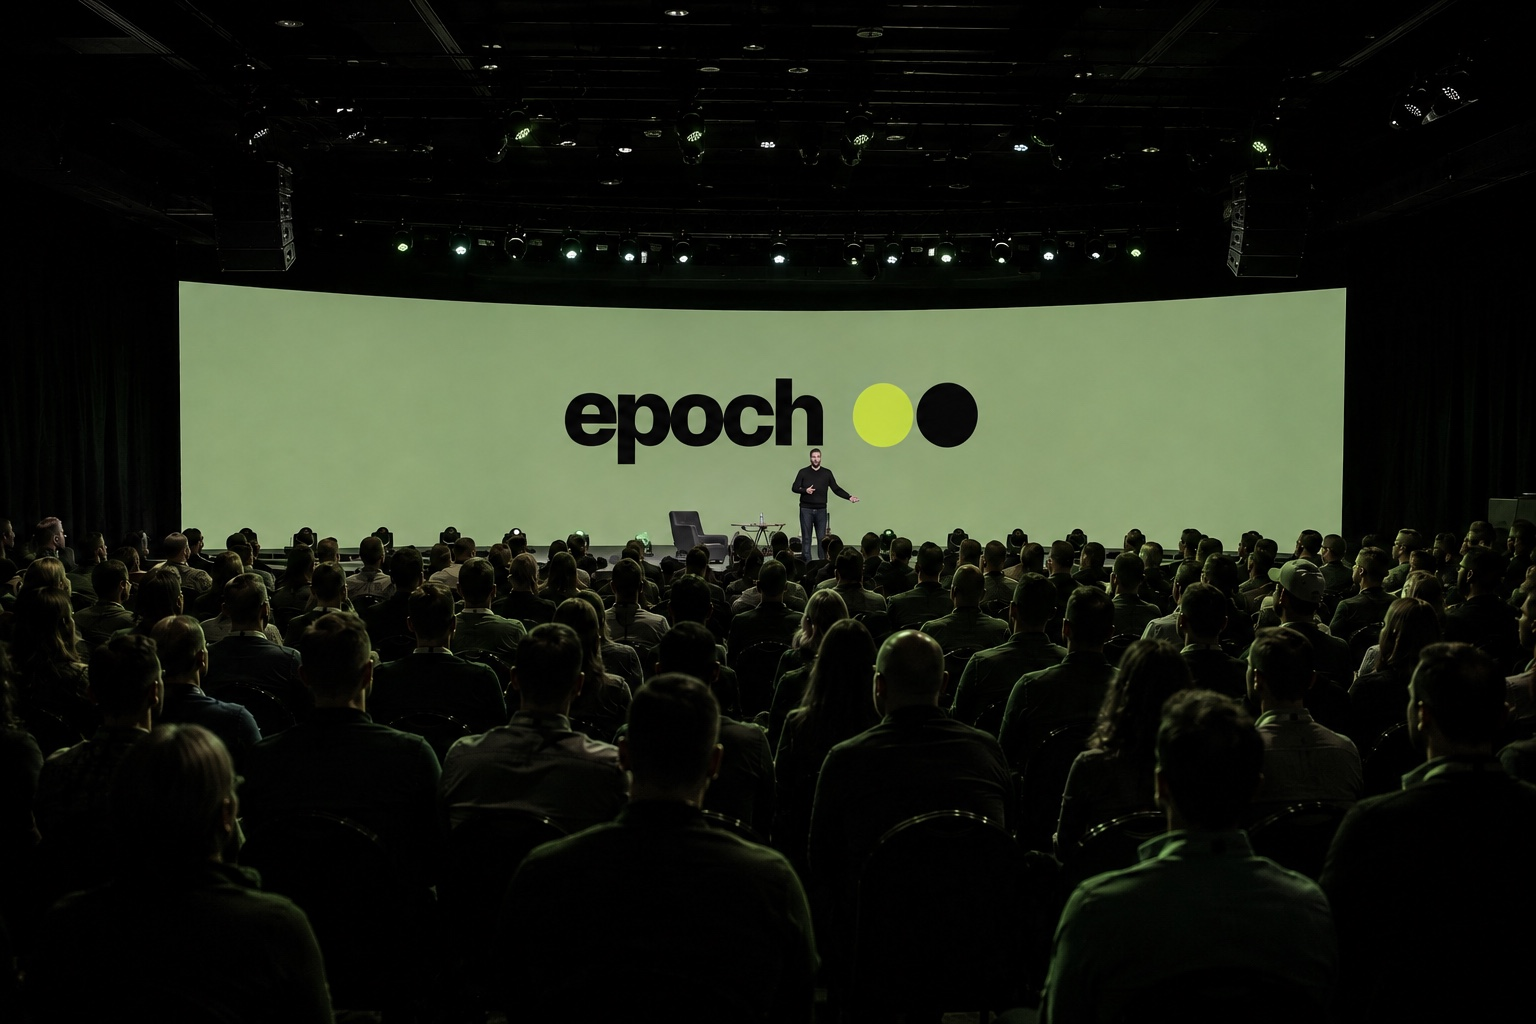
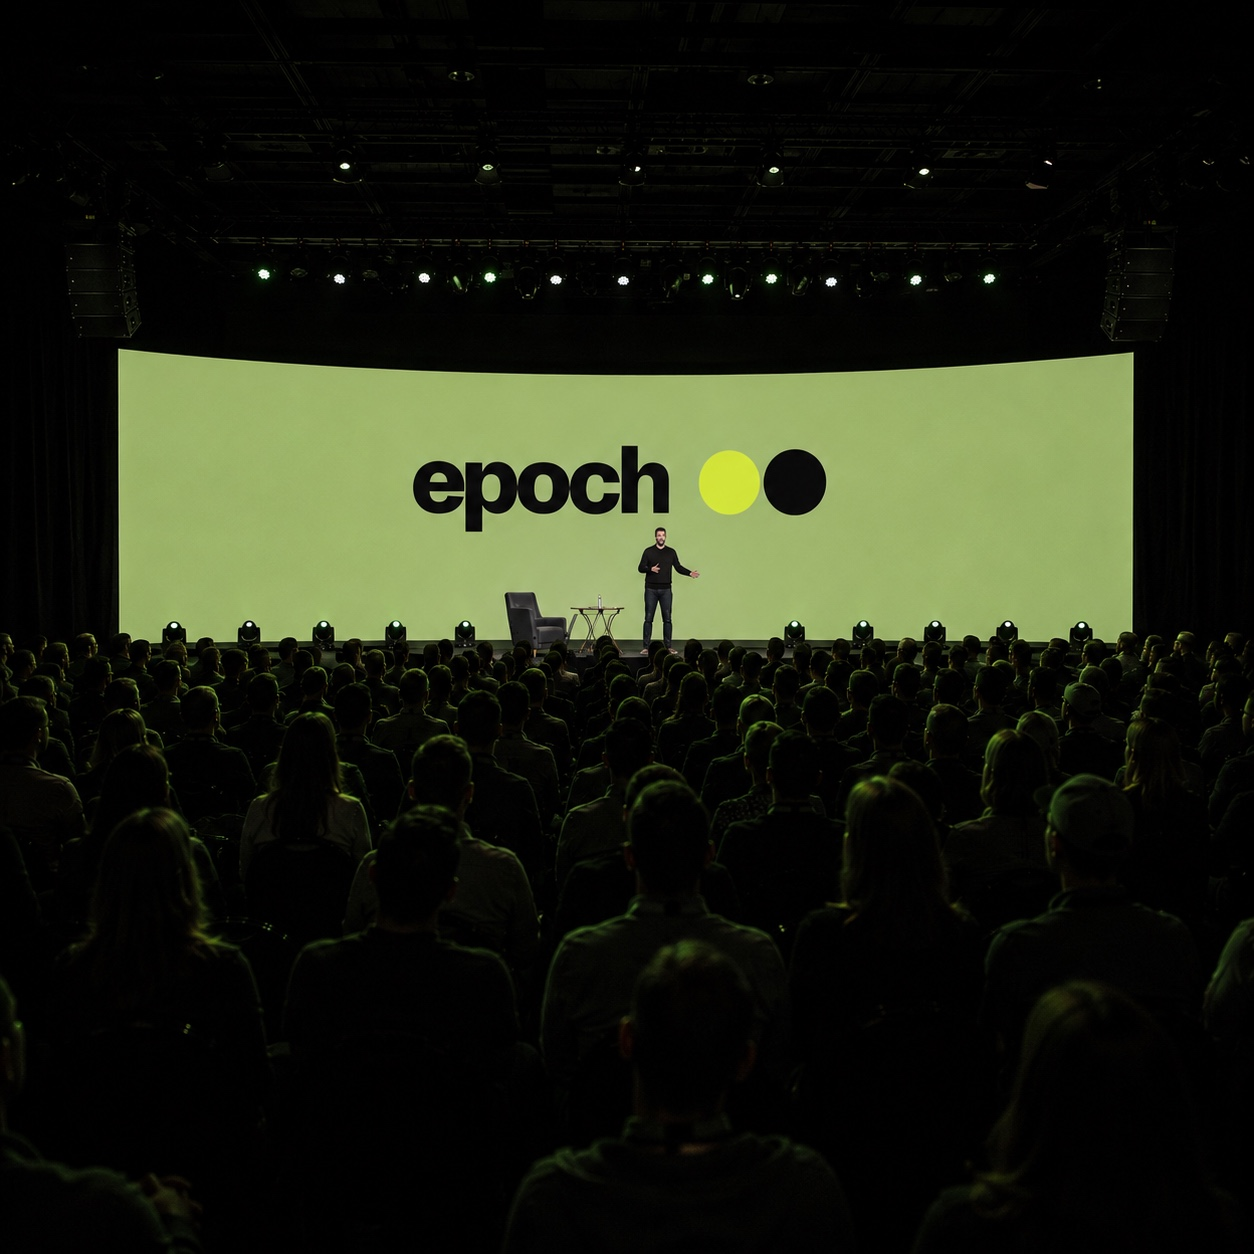
Refresh and brighten epoch hero photo

diff --git a/index.html b/index.html
@@ -6,7 +6,7 @@
 <title>epoch 2026 — three days of AI for people who build</title>
 <meta name="description" content="epoch is a working AI conference for engineers, researchers and product and design leads. November 12–14, 2026, Warehouse 9, Red Hook, Brooklyn. 63 sessions, 40 speakers, tickets from $390.">
 <link rel="stylesheet" href="fonts/inter.css">
-<link rel="stylesheet" href="style.css?v=20260818-10">
+<link rel="stylesheet" href="style.css?v=20260819-1">
 </head>
 <body>
 
@@ -42,7 +42,7 @@
         <span class="hero__badge" style="font-family:var(--disp);font-weight:800;font-size:30px;letter-spacing:-.03em" aria-hidden="true">26</span>
       </h1>
       <figure class="hero__shot">
-        <img src="img/hero-room.jpg?v=20260818-2" alt="A speaker presenting epoch on stage to a full conference audience">
+        <img src="img/hero-room.jpg?v=20260819-1" alt="A speaker presenting epoch on stage to a full conference audience">
       </figure>
     </div>
 

diff --git a/style.css b/style.css
@@ -147,7 +147,7 @@ a{color:inherit;text-decoration:none}
   padding-bottom:58px;
 }
 .hero__shot{height:392px;overflow:hidden}
-.hero__shot img{width:100%;height:100%;object-fit:cover;transform:scale(1.18)}
+.hero__shot img{width:100%;height:100%;object-fit:cover;transform:scale(1.18);filter:brightness(1.12)}
 
 .hero__title{
   font-family:var(--disp);
